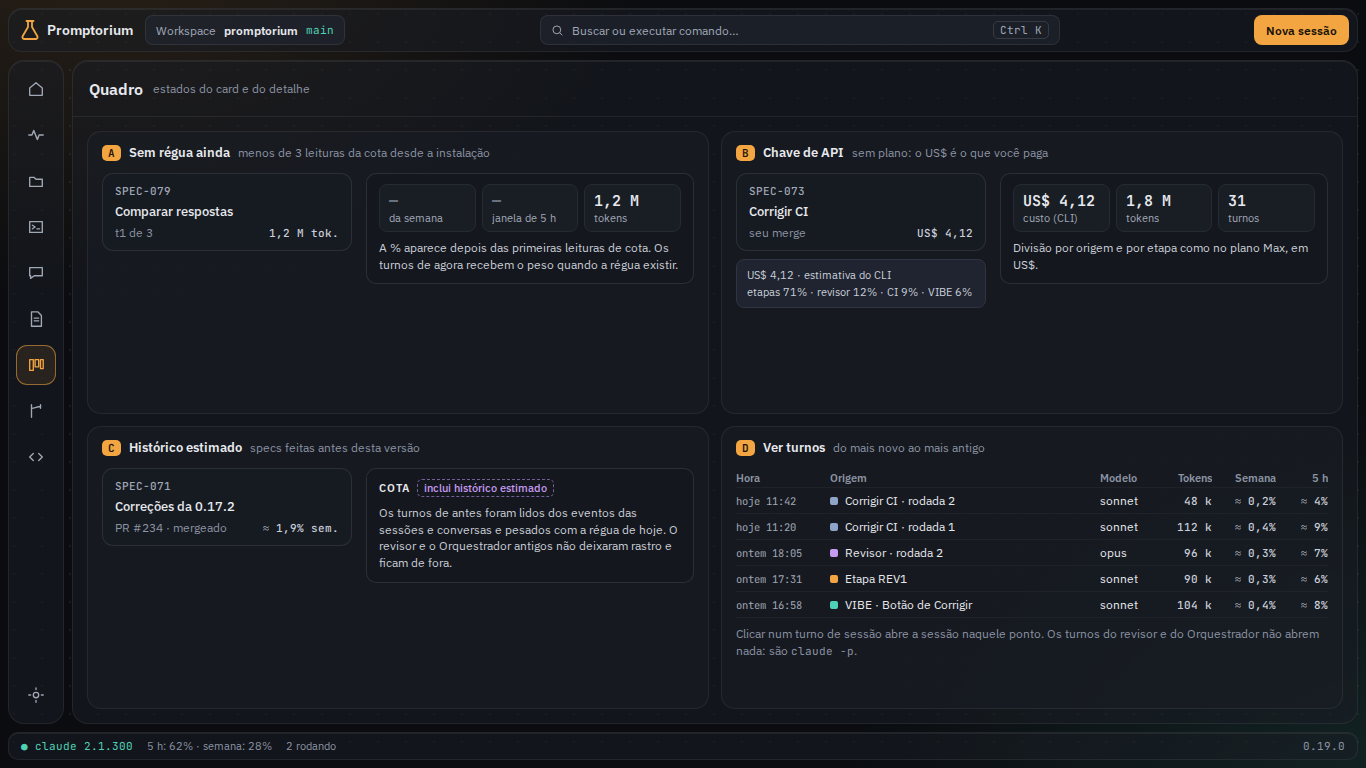
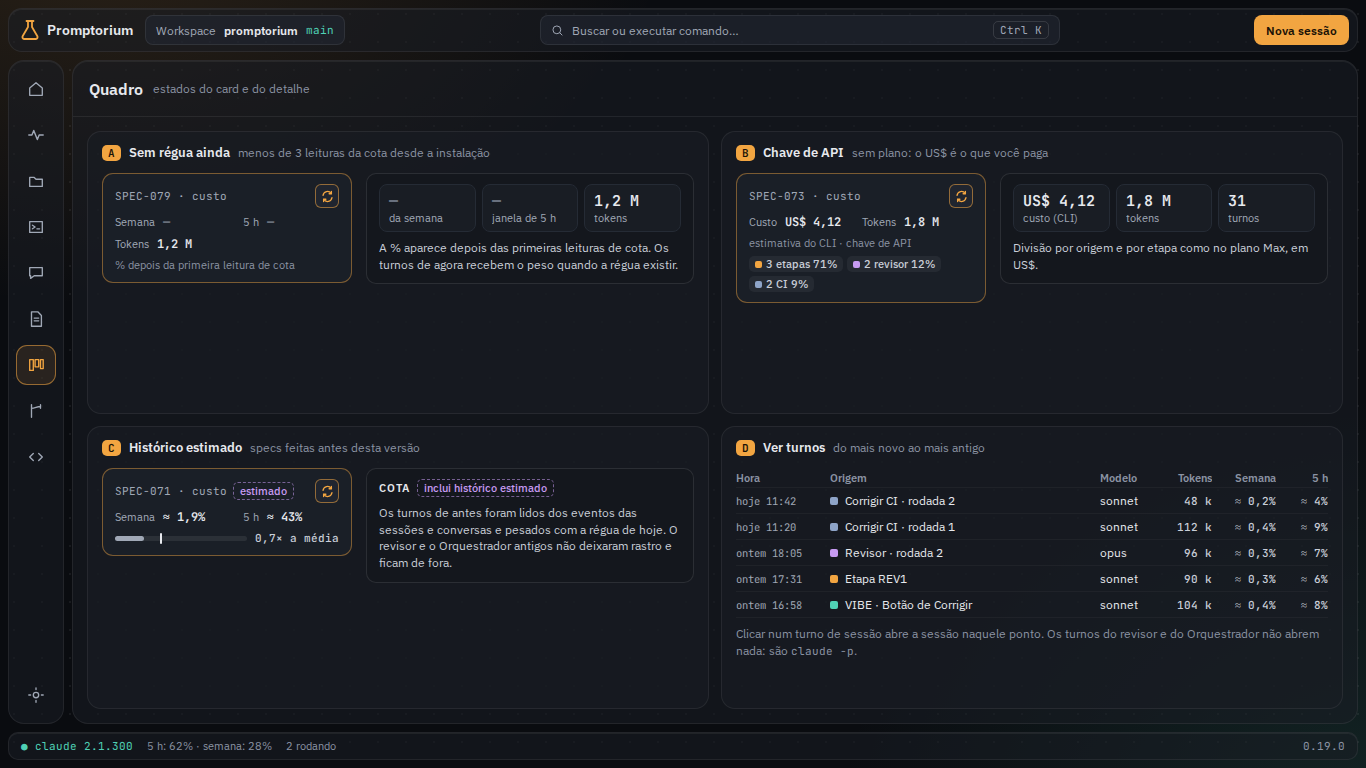
docs(spec-081): custo no verso do card, que vira

diff --git a/docs/specs/SPEC-081-custo-por-spec.md b/docs/specs/SPEC-081-custo-por-spec.md
@@ -17,14 +17,14 @@ E o número que existe está na unidade errada. O usuário está no plano Max: n
 Esta spec:
 - passa a **registrar o consumo de cada turno** de tudo o que trabalha numa spec (etapas, revisor automático, Corrigir CI, VIBE, refinamento, classificador e decisões do Orquestrador), com a spec e a origem;
 - converte o consumo em **peso na janela de 5 h e na semana**, em % e em tokens, a partir das leituras de cota que o app já recebe (`rate_limit_event` e `/usage`), como a Atividades (SPEC-076 R7) faz com as sessões vivas;
-- mostra o número **no card do Quadro** e **no detalhe da spec**, com a divisão por origem e por etapa;
+- mostra o custo **no verso do card do Quadro** (a pessoa vira o card para ver; a frente continua como hoje) e **no detalhe da spec**, com a divisão por origem e por etapa;
 - cria um **ranking das specs que mais custaram**, em Projeto → Métricas.
 
 Mockup: [canvas do Claude Design](https://claude.ai/artifact/8jY976rNGUu6w2TNxAoGTr). Capturas em `docs/mockups/spec-081/`:
 
 | Captura | O que mostra | Requisitos |
 |---|---|---|
-| `1-quadro.png` | O Quadro com o peso no card (semana), o peso ao vivo de uma spec rodando e a dica com a divisão | R6, R7 |
+| `1-quadro.png` | O Quadro com dois cards virados (o verso com o custo, um deles rodando), o botão de virar no hover e a virada quadro a quadro | R6–R6c, R7, R14 |
 | `2-detalhe.png` | O painel da spec com a seção Cota: totais, divisão por origem, por etapa e a lista de turnos | R8, R9 |
 | `3-ranking.png` | Projeto → Métricas com "Specs que mais custaram", o período e a troca de unidade | R10, R11 |
 | `4-estados.png` | Sem leitura de cota ainda, chave de API (US$), histórico estimado e a lista de turnos | R3, R5, R8, R12 |
@@ -44,15 +44,22 @@ Mockup: [canvas do Claude Design](https://claude.ai/artifact/8jY976rNGUu6w2TNxAo
   - **Verificação**: a verificação da spec (`spec_verifier.dart`) e as respostas às perguntas (`spec_answers.dart`);
   - **Outros**: o que roda numa spec e não está acima (protótipo de telas, `spec_design.dart`).
 
-  Turnos sem spec (Prompt livre, sessões soltas, Projeto, mini planejamento da Nova spec) também são gravados, com spec nula, para a soma do workspace e para a régua do R3, mas não aparecem no card nem no ranking.
+  Turnos sem spec (Prompt livre, sessões soltas, Projeto, mini planejamento da Nova spec) também são gravados, com spec nula, para a soma do workspace e para a régua do R3, mas não aparecem no verso do card nem no ranking.
 - R3 · **A régua: quanto da cota vale um turno.** A cota do plano é medida pelo custo das chamadas, não pela contagem de tokens, então o custo estimado do CLI serve de peso e nunca aparece como preço. O app aprende quanto cada janela sobe por unidade de custo: a cada leitura nova da cota (`rate_limit_event` ou `/usage`) na mesma janela (mesmo `resetsAt`), ele divide a subida do uso pela soma do custo dos turnos gravados entre as duas leituras. A régua de cada janela é a **mediana das últimas 20 divisões** válidas (subida > 0 e custo > 0), guardada em `app_settings` (`quota.ruler.five_hour`, `quota.ruler.seven_day`). A mediana tira do cálculo os intervalos em que a pessoa usou o Claude fora do app (o terminal, o claude.ai), que sobem a cota sem turno gravado. Sem régua ainda (menos de 3 divisões), o app mostra só os tokens e "% depois da primeira leitura de cota".
 - R4 · **O peso fica no lançamento.** Ao gravar, o lançamento recebe o peso na janela de 5 h e na semana pela régua do momento (`custo × régua`), e esse número não muda depois, mesmo que a régua mude. Um lançamento gravado sem régua recebe o peso quando a primeira régua existir.
 - R5 · **O histórico de antes.** As sessões e conversas gravadas antes desta spec têm só o total (`costUsd`, `tokensIn`, `tokensOut`). Na primeira abertura depois da migração, o app lê os eventos `result` de `session_events` e `conversation_events` e cria os lançamentos com a hora de cada turno, em segundo plano e uma vez só. Os `claude -p` antigos (revisor, Orquestrador) não deixaram rastro e ficam de fora. Esses lançamentos vêm marcados como **estimados** (régua de hoje, não a do dia) e o detalhe diz "inclui histórico estimado".
 
 ### Onde aparece
 
-- R6 · **No card do Quadro.** O "US$ 4,12" do card troca para o peso da spec na semana: "≈ 6% sem." em mono, com um traço curto que enche conforme o peso (0 a 25% da semana; acima disso, cheio e em âmbar). A dica (hover ou foco) mostra a janela de 5 h ("1,4 janela de 5 h"), os tokens ("1,8 M tokens · 41 M do cache") e a divisão por origem em uma linha ("etapas 71% · revisor 12% · CI 9% · VIBE 8%"). A coluna Feito mostra o número sem traço. O card sem consumo não mostra nada.
-- R7 · **Ao vivo.** Enquanto a spec tem uma sessão viva, o card mostra também o peso dela na janela de 5 h atual, o mesmo da Atividades (SPEC-076 R7): "agora ≈ 9% · 5 h", em teal. Quando a sessão termina, o número entra no total da spec.
+- R6 · **O custo fica no verso do card.** A frente do card do Quadro continua como é hoje, sem nenhum número de custo: o "US$ 4,12" que a frente mostra hoje sai dela e vai para o verso. Para ver o custo, a pessoa **vira o card**:
+  - **o gatilho** é um botão de ícone "virar" (⟲) no canto inferior direito da frente, que aparece com o mouse sobre o card ou com o foco dentro dele, com a dica "Ver o custo · V"; com o foco no card, a tecla **V** também vira. O botão usa `AppPressable.claim`, como os selos do card (gate, CI, issue), para o toque nele não virar clique no card nem começar um arrasto (P2);
+  - **a animação** é um giro 3D no eixo vertical (`Transform` com perspectiva, `rotateY` de 0 a 180°), de 360 ms com a curva do app; na metade do giro a frente dá lugar ao verso. Virar de novo (o mesmo botão, agora no verso, V ou Esc) volta à frente pelo mesmo giro;
+  - **a altura:** o card virado tem a altura do maior dos dois lados; se o verso precisa de mais, o card cresce junto com o giro e volta à altura da frente ao desvirar;
+  - **um por vez:** virar outro card desvira o anterior; arrastar um card virado desvira ele antes; trocar de workspace ou de tela desvira todos. O estado não é salvo (P9).
+- R6a · **O verso.** Mostra, de cima para baixo: "SPEC-073 · custo" e o botão de desvirar; **Semana** "≈ 6,2%" e **Janela de 5 h** "≈ 1,4 jan."; **Tokens** "1,8 M" e "+ 41 M do cache"; **as sessões somadas por tipo**, em etiquetas com a cor da origem, a quantidade e a parte de cada uma ("3 etapas 71%", "2 revisor 12%", "2 CI 9%", "1 VIBE 6%", "1 refino 2%"); e **a comparação com a média**: uma barra com o peso da spec e um traço na média, "2,1× a média" e, quando cabe, "média das specs feitas em 30 dias: ≈ 2,9% sem." (P8). Com menos de 3 specs na média, a linha diz "sem média ainda". Acima de 1,5× a média, a barra e o número ficam em âmbar. Clicar no verso (fora do botão) abre o detalhe da spec (R8), como o clique na frente. Uma spec sem consumo mostra no verso "Nada gasto ainda".
+- R6b · **O que não muda.** O clique no card abre o detalhe como hoje; o arrasto move o card como hoje; o clique no robô (SPEC-076) abre a Atividades como hoje; o menu do card continua no mesmo lugar. O robô e o balão de pedido ficam só na frente.
+- R6c · **Reduzir movimento.** Com "reduzir movimento" do sistema (`MediaQuery.disableAnimations`), a troca não gira: frente e verso trocam por um crossfade de 150 ms, e a altura muda sem animar.
+- R7 · **Ao vivo.** Enquanto a spec tem uma sessão viva, o verso mostra também o peso dela na janela de 5 h atual, o mesmo da Atividades (SPEC-076 R7): "agora ≈ 9% · 5 h, rodando", em teal. Os números do verso se atualizam a cada turno sem desvirar o card.
 - R8 · **No detalhe da spec.** O painel da spec no Quadro (`spec_steps_panel.dart`) ganha a seção **Cota**, abaixo das etapas:
   - os totais: "≈ 6% da semana", "≈ 1,4 janela de 5 h" e "1,8 M tokens" (com "+ 41 M lidos do cache" embaixo);
   - a divisão **por origem**, uma barra empilhada e a lista com o peso e a % de cada uma (Etapas, Revisor, Corrigir CI, VIBE, Refinamento, Orquestrador, Verificação, Outros);
@@ -62,13 +69,13 @@ Mockup: [canvas do Claude Design](https://claude.ai/artifact/8jY976rNGUu6w2TNxAo
   O "US$" ao lado de "3/3 etapas" sai. Na tela Specs, o painel de rastro da etapa (`step_trace_panel.dart`) troca o "Custo" em US$ pelo peso da sessão.
 - R9 · **A janela de 5 h de hoje.** No detalhe, quando a spec gastou na janela atual, aparece "nesta janela: ≈ 23% (renova às 14:00)", para a pessoa saber se ainda dá para mandar outra rodada antes de renovar.
 - R10 · **Ranking.** Projeto → Métricas ganha, no topo, **"Specs que mais custaram"**: as 10 specs do workspace com mais peso no período, com o código, o título, a coluna, uma barra pelo peso, a % da semana, a janela de 5 h, os tokens e a origem que mais pesou. O período é **7 dias** (padrão), **30 dias** ou **Tudo**, pelos lançamentos dentro do período. Clicar numa linha abre a spec no Quadro, com o painel aberto. Um "Todos os workspaces" junta as specs dos workspaces abertos, com o nome do workspace na linha.
-- R11 · **A tabela de métricas.** A coluna "Custo" (US$) de Projeto → Métricas vira "Cota (semana)", com o mesmo número do card, e o resumo do topo ("12 spec(s) · …") troca o US$ pelo peso somado.
-- R12 · **Chave de API.** Sem plano (`subscriptionType` nulo, chave de API), não há cota: o card, o detalhe e o ranking mostram o US$, que nesse caso é o que a pessoa paga, com "estimativa do CLI" na dica. O detalhe mantém a divisão por origem e por etapa.
-- R13 · **Formato.** Pesos com "≈" e uma casa decimal abaixo de 10% ("≈ 0,4%"), sem casa acima ("≈ 23%"); abaixo de 0,1%, "< 0,1%". Janelas acima de 100% viram "1,4 janela de 5 h". Tokens em "k" e "M" com vírgula decimal ("812 k", "1,8 M"). Estados nunca só pela cor: o âmbar do traço vem com o número.
+- R11 · **A tabela de métricas.** A coluna "Custo" (US$) de Projeto → Métricas vira "Cota (semana)", com o mesmo número do verso do card, e o resumo do topo ("12 spec(s) · …") troca o US$ pelo peso somado.
+- R12 · **Chave de API.** Sem plano (`subscriptionType` nulo, chave de API), não há cota: o card, o detalhe e o ranking mostram o US$, que nesse caso é o que a pessoa paga, com "estimativa do CLI" no verso do card. O detalhe mantém a divisão por origem e por etapa.
+- R13 · **Formato.** Pesos com "≈" e uma casa decimal abaixo de 10% ("≈ 0,4%"), sem casa acima ("≈ 23%"); abaixo de 0,1%, "< 0,1%". Janelas acima de 100% viram "1,4 janela de 5 h". Tokens em "k" e "M" com vírgula decimal ("812 k", "1,8 M"). Estados nunca só pela cor: o âmbar da comparação vem com o "2,1×".
 
 ### Acessibilidade
 
-- R14 · O traço do card é decorativo; o número tem o rótulo "Cota da spec: cerca de 6% da semana, 1,4 janela de 5 horas". A barra empilhada do detalhe tem a lista ao lado com os mesmos números, e o ranking é uma tabela navegável pelo teclado (↑/↓, Enter abre).
+- R14 · O botão de virar tem o rótulo "Ver o custo da SPEC-073" (no verso, "Mostrar a frente do card") e entra na ordem do Tab do card. Ao virar, o leitor de tela anuncia "Custo da SPEC-073: cerca de 6,2% da semana, 1,4 janela de 5 horas, 2,1 vezes a média"; a barra da comparação é decorativa. A barra empilhada do detalhe tem a lista ao lado com os mesmos números, e o ranking é uma tabela navegável pelo teclado (↑/↓, Enter abre).
 
 ## Fora do escopo
 
@@ -83,16 +90,19 @@ Mockup: [canvas do Claude Design](https://claude.ai/artifact/8jY976rNGUu6w2TNxAo
 ## Decisões em aberto
 
 - P1 · **Como transformar consumo em % da cota.** (a) Repartir a subida da cota entre os turnos do app no intervalo; (b) uma régua aprendida (mediana de subida ÷ custo, R3); (c) uma tabela fixa por plano. **Recomendação: (b).** A (a) joga na spec o que a pessoa gastou no terminal ao mesmo tempo. A (c) depende de números que a Anthropic não publica e que mudam. A régua se ajusta sozinha e a mediana descarta os intervalos contaminados.
-- P2 · **O que o card mostra.** % da semana, janela de 5 h ou tokens. **Recomendação: % da semana**, com a janela de 5 h e os tokens na dica. Uma spec atravessa várias janelas de 5 h, e "140% da janela" confunde; a semana acumula, como a spec.
+- P2 · **Gatilho para virar o card.** O clique no card abre o detalhe, o arrasto move, o robô leva à Atividades e o menu "⋯" abre as ações. Clique duplo atrasaria o clique simples (o app teria de esperar para saber se vem o segundo); pressionar e segurar briga com o arrasto; passar o mouse viraria cards sem querer ao percorrer o Quadro; o botão direito não é descoberto por ninguém. **Recomendação: um botão de ícone "virar" (⟲) no canto inferior direito**, que aparece no hover e no foco, mais a tecla **V** com o card em foco. É explícito, não tem atraso, segue o padrão dos selos clicáveis do card (`AppPressable.claim`) e funciona pelo teclado.
+- P2a · **O que o verso destaca.** % da semana, janela de 5 h ou tokens. **Recomendação: % da semana primeiro**, com a janela de 5 h ao lado e os tokens embaixo. Uma spec atravessa várias janelas de 5 h, e "140% da janela" confunde; a semana acumula, como a spec.
 - P3 · **Tokens: com ou sem cache.** A leitura de cache é a maior parte dos tokens (40 M num dia) e pesa pouco na cota. **Recomendação:** o número principal é entrada nova + escrita de cache + saída; a leitura de cache aparece à parte ("+ 41 M lidos do cache").
 - P4 · **Onde fica o ranking.** Em Projeto → Métricas, na Atividades ou numa tela nova. **Recomendação: Projeto → Métricas**, que já é a tela de "o que cada spec custou" (F14). A Atividades é do que está vivo agora.
 - P5 · **Histórico de antes (R5).** Reconstruir dos eventos, mostrar só a partir de agora ou somar o total da sessão sem divisão. **Recomendação: reconstruir dos eventos**, marcado como estimado. Sem isso, o ranking começa vazio e as specs já feitas, que são as que a pessoa quer comparar, ficam de fora.
 - P6 · **Corrigir CI na sessão da spec.** O Corrigir CI manda a mensagem para a sessão que já existe. **Recomendação:** marcar a origem no turno (o `CiFixer` avisa o `SessionManager` que o próximo turno é dele), e não abrir uma sessão nova só para separar o custo.
+- P8 · **Base da média do verso.** Todas as specs, só as feitas, ou as feitas nos últimos 30 dias. **Recomendação: as feitas em 30 dias.** Uma spec em andamento ainda vai gastar e puxaria a média para baixo; specs antigas foram feitas com outros modelos.
+- P9 · **Vários cards virados.** **Recomendação: um por vez.** Virar é para olhar um custo; vários virados escondem o Quadro, e comparar specs é o papel do ranking.
 - P7 · **Ranking por padrão.** Só o workspace ativo ou todos. **Recomendação:** o workspace ativo, com "Todos os workspaces" ao lado, como as Métricas já são por workspace.
 
 ## Design
 
-Canvas para validar: [Custo por spec](https://claude.ai/artifact/8jY976rNGUu6w2TNxAoGTr). Quatro artboards: o Quadro, o detalhe da spec, o ranking e os estados.
+Canvas para validar: [Custo por spec](https://claude.ai/artifact/8jY976rNGUu6w2TNxAoGTr). Quatro artboards: o Quadro com o card virado, o detalhe da spec, o ranking e os estados.
 
 ### O que já existe
 
@@ -103,7 +113,7 @@ Canvas para validar: [Custo por spec](https://claude.ai/artifact/8jY976rNGUu6w2T
 - `lib/features/prompt/conversation_manager.dart`: o mesmo para as conversas (VIBE, refinamento, Prompt).
 - `lib/core/claude/readonly_run.dart`: `runReadOnlyClaude`, o `claude -p` do revisor, do Orquestrador, da verificação e do protótipo. Hoje o custo dele se perde.
 - `lib/features/review/ci_fixer.dart`: envia a mensagem do Corrigir CI para a sessão da spec.
-- `lib/features/board/board_screen.dart`: `SpecCardData.cost` (soma em US$ das sessões da spec) e o texto do card. `widgets/spec_steps_panel.dart`: o "3/3 etapas · US$".
+- `lib/features/board/board_screen.dart`: `SpecCardData.cost` (soma em US$ das sessões da spec), o texto do card e os selos com `AppPressable.claim`. `widgets/spec_steps_panel.dart`: o "3/3 etapas · US$".
 - `lib/features/project/spec_metrics.dart` e `widgets/spec_metrics_view.dart` (F14): as métricas por spec, com a coluna Custo.
 - `lib/features/project/widgets/usage_block.dart` e `provider_availability.dart`: o plano (`subscriptionType`) para o R12.
 
@@ -115,7 +125,7 @@ Canvas para validar: [Custo por spec](https://claude.ai/artifact/8jY976rNGUu6w2T
 - **`lib/features/cost/usage_ledger.dart`**: `UsageLedger.record(...)`, chamado pelo `SessionManager`, pelo `ConversationManager` e pelo `runReadOnlyClaude` (com `specId` e `source` novos nos parâmetros) (R1, R2).
 - **`lib/features/cost/spec_cost.dart`**: `SpecCost` (totais, por origem, por etapa, nesta janela) e `specCostOf(entries)` (função pura); `specCostProvider(specId)` e `specCostRankingProvider(workspace, período)` (R6–R11).
 - **`lib/features/cost/usage_backfill.dart`**: a reconstrução do R5, uma vez, marcada em `app_settings`.
-- **`lib/features/cost/widgets/`**: `SpecCostChip` (card), `SpecCostSection` (detalhe), `SpecCostRanking` (Métricas); `formatQuota` e `formatTokens` (R13).
+- **`lib/features/cost/widgets/`**: `SpecCardFlip` (o giro, o crossfade e o "um por vez"), `SpecCostBack` (o verso), `SpecCostSection` (detalhe), `SpecCostRanking` (Métricas); `formatQuota` e `formatTokens` (R13).
 
 ### Arquivos tocados
 
@@ -139,7 +149,7 @@ Sim. Uma tabela nova, `usage_entries`, na **v29** (provisória: a atual é a v28
 - `UsageLedger`: o turno é a diferença do acumulado; turno sem consumo não grava; origem e spec de cada caminho (etapa, `REVn`, revisor, CI, VIBE, refinamento pelo código, Orquestrador).
 - `specCostOf`: totais, por origem, por etapa, nesta janela; lançamentos sem peso ficam só com tokens.
 - Backfill: lê os `result` dos eventos, uma vez só, marca como estimado.
-- Widgets: o card mostra "≈ 6% sem." e o traço, a dica tem a divisão, o "agora" aparece com sessão viva; o detalhe mostra as três divisões; o ranking ordena, filtra pelo período e abre a spec; chave de API mostra US$.
+- Widgets: a frente não mostra custo; o botão e o V viram e desviram; o clique no card abre o detalhe e não vira; o robô continua indo à Atividades; arrastar desvira; virar outro desvira o anterior; com "reduzir movimento" é crossfade; o verso tem semana, 5 h, tokens, sessões por tipo, a média e o "agora"; o detalhe mostra as três divisões; o ranking ordena, filtra pelo período e abre a spec; chave de API mostra US$.
 
 ## Critérios de aceite
 
@@ -147,10 +157,13 @@ Sim. Uma tabela nova, `usage_entries`, na **v29** (provisória: a atual é a v28
 - [ ] A régua sai da mediana das divisões na mesma janela e ignora a janela que renovou [R3] verificar: flutter test test/features/cost/quota_ruler_test.dart
 - [ ] O peso fica no lançamento e um lançamento sem régua recebe o peso depois [R4] verificar: flutter test test/features/cost/usage_ledger_test.dart
 - [ ] O histórico de antes é reconstruído dos eventos uma vez só, marcado como estimado [R5] verificar: flutter test test/features/cost/usage_backfill_test.dart
-- [ ] O card mostra o peso da semana com o traço, a dica com a janela, os tokens e as origens, e "agora" com sessão viva [R6, R7, R13, R14] verificar: flutter test test/features/cost/spec_cost_chip_test.dart
+- [ ] A frente do card não mostra custo; o botão ⟲ e a tecla V viram o card com o giro 3D e desviram, um card por vez [R6, R14] verificar: flutter test test/features/cost/spec_card_flip_test.dart
+- [ ] O clique no card, o arrasto e o clique no robô fazem o mesmo que hoje, e arrastar desvira o card [R6b] verificar: flutter test test/features/cost/spec_card_flip_test.dart
+- [ ] Com "reduzir movimento", a troca é um crossfade sem giro [R6c] verificar: flutter test test/features/cost/spec_card_flip_test.dart
+- [ ] O verso mostra semana, 5 h, tokens, as sessões por tipo, a comparação com a média e "agora" com sessão viva [R6a, R7, R13] verificar: flutter test test/features/cost/spec_cost_back_test.dart
 - [ ] O detalhe mostra os totais, a divisão por origem e por etapa, "nesta janela" e os turnos [R8, R9] verificar: flutter test test/features/cost/spec_cost_section_test.dart
 - [ ] O ranking lista as 10 que mais custaram no período, junta os workspaces e abre a spec [R10, R11] verificar: flutter test test/features/cost/spec_cost_ranking_test.dart
-- [ ] Com chave de API, card, detalhe e ranking mostram US$ com "estimativa do CLI" [R12] verificar: flutter test test/features/cost/spec_cost_chip_test.dart
+- [ ] Com chave de API, card, detalhe e ranking mostram US$ com "estimativa do CLI" [R12] verificar: flutter test test/features/cost/spec_cost_back_test.dart
 - [ ] A migração cria `usage_entries` sem tocar nas outras tabelas [R1] verificar: flutter test test/data/db/migration_test.dart
-- [ ] No app, uma spec rodada de ponta a ponta (etapas, revisor, Corrigir CI e uma VIBE) mostra no card e no detalhe a soma de todas as origens, e o ranking a coloca na posição certa [R1–R10] verificar: manual (app isolado com `XDG_DATA_HOME`, prints em `docs/mockups/spec-081/app/`)
+- [ ] No app, uma spec rodada de ponta a ponta (etapas, revisor, Corrigir CI e uma VIBE) mostra no verso do card e no detalhe a soma de todas as origens, e o ranking a coloca na posição certa [R1–R10] verificar: manual (app isolado com `XDG_DATA_HOME`, prints em `docs/mockups/spec-081/app/`)
 - [ ] O projeto compila e a análise estática passa [R1–R14] verificar: flutter analyze
